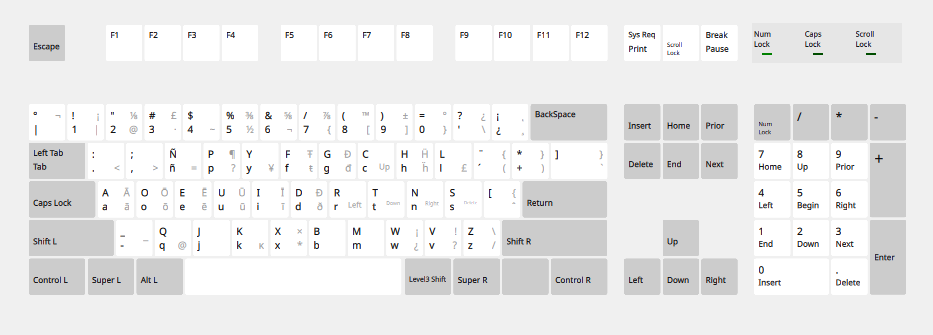
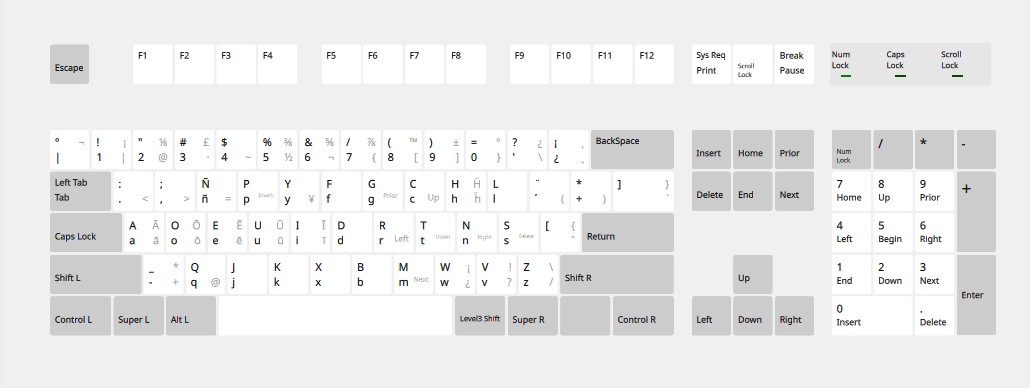
añadidas teclas de navegación

diff --git a/README.md b/README.md
@@ -8,43 +8,52 @@ Este proyecto modifica el layout de teclado Dvorak latinoamericano estándar par
 ## Filosofía del Proyecto
 - **Mantener la disposición base de Dvorak**: Las teclas principales permanecen intactas
 - **Optimizar el Level 3 (AltGr)**: Reemplazar símbolos poco utilizados por otros más relevantes para programación
-- **Mejorar la memoria dactilar**: Ubicar símbolos importantes cerca de atajos de teclado comunes (Ctrl+C, Ctrl+V, etc.)
 - **Eliminar teclas muertas innecesarias**: Sustituir dead keys por símbolos directamente accesibles
+- **Evitar el movimiento innecesario de la mano**
 
 ## Cambios Implementados
+(Se considera un Teclado con distribución QWERTY US)
 
 ### Layout Básico (basic)
-- **Símbolos básicos optimizados**: Mantenimiento de la funcionalidad esencial sin teclas muertas
+- **Símbolos básicos optimizados**: Mantenimiento de la funcionalidad esencial sin teclas muertas 
 
 ### Layout Dvorak - Optimizaciones Level 3 (AltGr)
 
+**Símbolos**
+
 | Tecla | Símbolo Base | Level 3 Modificado | Justificación |
 |-------|-------------|------------------|-------------------|
-| ñ | ñ, Ñ | `=` | Facilita escritura de `<=` `>=` (cerca de `<>`) |
-| p | p, P | `?` | Acceso rápido al símbolo `?` (más útil que `¶`) |
-| - | -, _ | `z` | Memoria dactilar Ctrl+Z |
-| q | q, Q | `x` | Memoria dactilar Ctrl+X |
-| j | j, J | `c` | Memoria dactilar Ctrl+C |
-| k | k, K | `v` | Memoria dactilar Ctrl+V |
-| w | w, W | `¿, ¡` | Acceso directo a símbolos de apertura interrogación/exclamación |
-| v | v, V | `?, !` | Símbolos de cerradura interrogación/exclamación |
-| z | z, Z | `/, \` | Barras frecuentes en programación |
+| Q | ., : | `<` | Acceso rápido para teclados en Inglés |
+| W | ,, ; | `>` | Acceso rápido para teclados en Inglés |
+| E | ñ, Ñ | `=` | Facilita escritura de `<=` `>=` (cerca de `<>`) |
+| [ | ´, ¨ | `(` | Acceso a paréntesis, cerca de las llaves y corchetes |
+| ] | +, * | `)` | Acceso a paréntesis, cerca de las llaves y corchetes |
+| Z | -, _ | `+,*` | Acceso redundante con la mano izquierda |
+| , | w, W | `¿, ¡` | Acceso directo a símbolos de apertura interrogación/exclamación |
+| . | v, V | `?, !` | Símbolos de cerradura interrogación/exclamación |
+| / | z, Z | `/, \` | Barras frecuentes en programación |
 
-### Símbolos Optimizados para Programación
 
-#### Símbolos Críticos Incluidos
-- **Llaves**: `{}` - Definición de bloques de código
-- **Corchetes**: `[]` - Acceso a arrays y estructuras de datos
-- **Paréntesis**: `()` - Funciones y agrupación
-- **Operadores**: `=`, `==`, `!=`, `<`, `>`, `<=`, `>=`
-- **Operadores matemáticos**: `+`, `-`, `*`, `/`, `%`
-- **Barras**: `/`, `\` - Comentarios y rutas de archivos
-- **Símbolos especiales**: `#`, `$`, `@`, `~`, `^`, `|`
+**Edición**
+| Tecla | Símbolo Base | Level 3 Modificado | 
+|-------|-------------|------------------|
+| R | p, P | `Insert` | 
+| ; | s, S | `Delete` | 
 
-#### Acceso Mejorado a Atajos
-- **Ctrl+C/V/X/Z**: Símbolos ubicados estratégicamente cerca de estos atajos
-- **Navegación**: Símbolos de comparación y asignación fácilmente accesibles
-- **Comentarios**: Acceso rápido a `#`, `//` y símbolos relacionados
+**Navegación**
+| Tecla | Símbolo Base | Level 3 Modificado | 
+|-------|-------------|------------------|
+| R | p, P | `Home` | 
+| V | k, K | `End` | 
+| U | g, G | `Prior` | 
+| M | m, M | `Next` | 
+| I | c, C | `Up` | 
+| K | k, K | `Down` | 
+| J | r, R | `Left` | 
+| L | l, L | `Right` | 
+
+
+
 
 ## Instalación
 
